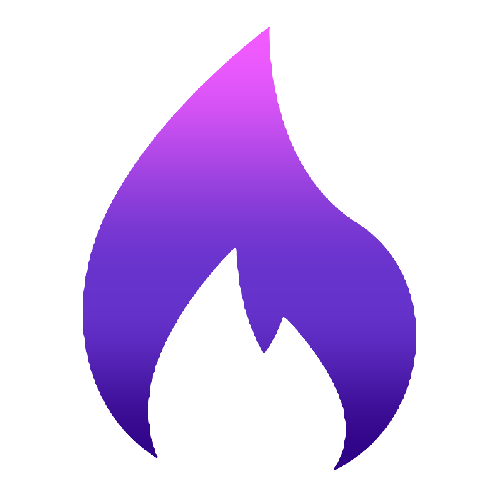
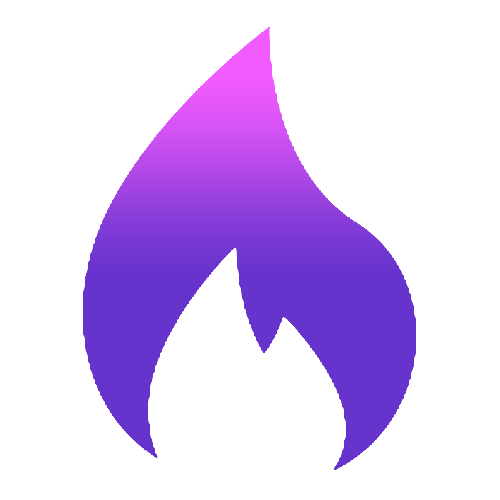
fix: Correção do comportamento dos icones de Sparks ao alterar o tema. Alteração de 'likes/curtidas' para 'sparks'

Changed region(s): [[0.63, 0.72, 0.84, 0.96], [0.18, 0.72, 0.33, 0.93]]

diff --git a/frontend/src/modules/clarospark/components/board/IdeaCard.jsx b/frontend/src/modules/clarospark/components/board/IdeaCard.jsx
@@ -28,6 +28,7 @@ import { useLikes } from "modules/clarospark/hooks/useLikes";
 import statusConfig from "modules/clarospark/utils/statusConfig";
 import { getLikeIcon } from "modules/clarospark/utils/getLikeIcon";
 import spark from "modules/clarospark/assets/f0.png";
+import { useTheme } from "modules/shared/contexts/ThemeContext";
 
 export default function IdeaCard({
   title,
@@ -42,14 +43,14 @@ export default function IdeaCard({
   const { likesCount, handleLike, updateLikeCount } = useLikes();
   const [isModalOpen, setIsModalOpen] = useState(false);
   const { color, icon } = statusConfig[status] || statusConfig["Em análise"];
-  const [theme, setTheme] = useState(localStorage.getItem("theme") || "dark");
+  const { theme } = useTheme();
 
   const handleCardClick = () => setIsModalOpen(true);
   const handleCloseModal = () => setIsModalOpen(false);
 
   const isLongDescription = description.length > 90;
   const truncatedDescription = isLongDescription
-    ? `${description.substring(0, 85)} ... `
+    ? `${description.substring(0, 90)} ... `
     : description;
 
   const displayedCreator =
@@ -61,20 +62,6 @@ export default function IdeaCard({
   useEffect(() => {
     updateLikeCount(ideaId, initialLikesCount);
   }, [ideaId, initialLikesCount, updateLikeCount]);
-
-  useEffect(() => {
-    const handleThemeChange = () => {
-      const newTheme = localStorage.getItem("theme") || "dark";
-      setTheme(newTheme);
-    };
-
-    // Monitora mudanças no tema
-    window.addEventListener("storage", handleThemeChange);
-
-    return () => {
-      window.removeEventListener("storage", handleThemeChange);
-    };
-  }, []);
 
   const handleLikeClick = async (e) => {
     e.stopPropagation();
@@ -127,14 +114,14 @@ export default function IdeaCard({
               onClick={status === "Em Análise" ? handleLikeClick : undefined}
               disabled={status !== "Em Análise"}
             >
-              <img src={likeIcon} alt="Like" className="w-6" />
+              <img src={likeIcon} alt="Sparks" className="w-6" />
               <span className="relative bottom-4 right-1 text-xs">
                 {currentLikes}
               </span>
             </Button>
           </TooltipTrigger>
           <TooltipContent>
-            {status === "Em Análise" ? "Curtir ideia" : "Like desativado"}
+            {status === "Em Análise" ? "Apoiar ideia" : "Like desativado"}
           </TooltipContent>
         </Tooltip>
       </div>
@@ -170,7 +157,7 @@ export default function IdeaCard({
                   Criador(a) da ideia
                 </p>
                 <p className="text-xs text-muted-foreground">
-                  {currentLikes} curtidas
+                  {currentLikes} sparks
                 </p>
               </div>
             </div>
@@ -180,8 +167,8 @@ export default function IdeaCard({
             <div className="flex space-x-2">
               {status === "Em Análise" && (
                 <Button variant="primary" onClick={handleLikeClick}>
-                  <img src={spark} alt="Like" className="mr-2 w-6" />
-                  Curtir
+                  <img src={spark} alt="Sparks" className="mr-2 w-6" />
+                  Apoiar
                 </Button>
               )}
               <Button variant="secondary" onClick={handleCloseModal}>

diff --git a/frontend/src/modules/shared/components/Header.jsx b/frontend/src/modules/shared/components/Header.jsx
@@ -1,4 +1,4 @@
-import React, { useState, useEffect, useContext } from "react";
+import React, { useContext } from "react";
 import { useLocation, Link } from "react-router-dom";
 import { Button } from "modules/shared/components/ui/button";
 import {
@@ -24,31 +24,13 @@ import AvatarDropdown from "modules/shared/components/AvatarDropdown";
 import NotificationsPopover from "modules/shared/components/NotificationsPopover";
 import formatUserName from "modules/shared/utils/formatUsername";
 import { AuthContext } from "modules/shared/contexts/AuthContext";
+import { useTheme } from "modules/shared/contexts/ThemeContext"; // Importa o hook de tema
 import appHeaderInfo from "../utils/appHeaderInfo";
 
 const Header = () => {
   const { user, logout } = useContext(AuthContext);
-  const [theme, setTheme] = useState("dark");
+  const { theme, toggleTheme } = useTheme(); // Usa o contexto para acessar e alternar o tema
   const location = useLocation();
-
-  useEffect(() => {
-    const savedTheme = localStorage.getItem("theme") || "dark";
-    setTheme(savedTheme);
-    document.documentElement.classList.toggle(
-      "light-theme",
-      savedTheme === "light",
-    );
-  }, []);
-
-  const toggleTheme = () => {
-    const newTheme = theme === "dark" ? "light" : "dark";
-    setTheme(newTheme);
-    localStorage.setItem("theme", newTheme);
-    document.documentElement.classList.toggle(
-      "light-theme",
-      newTheme === "light",
-    );
-  };
 
   const onLogout = () => {
     logout();
@@ -78,7 +60,7 @@ const Header = () => {
           <Button
             variant="ghost"
             size="icon"
-            onClick={toggleTheme}
+            onClick={toggleTheme} // Chama a função de alternar tema do contexto
             className="text-menu-foreground"
             aria-label={`Alternar para modo ${theme === "dark" ? "claro" : "escuro"}`}
           >

diff --git a/frontend/src/modules/clarospark/components/board/SparkMenu.jsx b/frontend/src/modules/clarospark/components/board/SparkMenu.jsx
@@ -25,6 +25,8 @@ import {
 } from "modules/shared/components/ui/dropdown-menu";
 import { useDownloadIdeas } from "modules/clarospark/hooks/useDownloadIdeas";
 import spark from "modules/clarospark/assets/f0.png";
+import sparkw from "modules/clarospark/assets/f0w.png";
+import { useTheme } from "modules/shared/contexts/ThemeContext";
 
 export default function SparkMenu({
   onToggleView,
@@ -60,6 +62,8 @@ export default function SparkMenu({
     fetchRemainingLikes();
   });
 
+  const { theme } = useTheme();
+
   return (
     <>
       <div className="relative bottom-0 top-[4px] z-20 flex w-1/2 justify-end space-x-2 justify-self-end sm:mr-10 sm:mt-24 lg:mr-10 lg:mt-0">
@@ -68,7 +72,7 @@ export default function SparkMenu({
             <TooltipTrigger asChild>
               <Button variant="ghost" size="icon" className="relative">
                 <img
-                  src={spark}
+                  src={theme === "dark" ? spark : sparkw}
                   alt="Quantidade de Sparks"
                   width={22}
                   draggable={false}
@@ -78,7 +82,7 @@ export default function SparkMenu({
                 </span>
               </Button>
             </TooltipTrigger>
-            <TooltipContent>Curtidas Restantes</TooltipContent>
+            <TooltipContent>Sparks Restantes</TooltipContent>
           </Tooltip>
 
           <Tooltip>

diff --git a/frontend/src/modules/shared/contexts/ThemeContext.jsx b/frontend/src/modules/shared/contexts/ThemeContext.jsx
@@ -1,0 +1,34 @@
+import React, { createContext, useState, useEffect, useContext } from "react";
+
+const ThemeContext = createContext();
+
+export const ThemeProvider = ({ children }) => {
+  const [theme, setTheme] = useState("dark");
+
+  useEffect(() => {
+    const savedTheme = localStorage.getItem("theme") || "dark";
+    setTheme(savedTheme);
+    document.documentElement.classList.toggle(
+      "light-theme",
+      savedTheme === "light",
+    );
+  }, []);
+
+  const toggleTheme = () => {
+    const newTheme = theme === "dark" ? "light" : "dark";
+    setTheme(newTheme);
+    localStorage.setItem("theme", newTheme);
+    document.documentElement.classList.toggle(
+      "light-theme",
+      newTheme === "light",
+    );
+  };
+
+  return (
+    <ThemeContext.Provider value={{ theme, toggleTheme }}>
+      {children}
+    </ThemeContext.Provider>
+  );
+};
+
+export const useTheme = () => useContext(ThemeContext);

diff --git a/frontend/src/modules/clarospark/utils/getLikeIcon.jsx b/frontend/src/modules/clarospark/utils/getLikeIcon.jsx
@@ -5,7 +5,7 @@ import f2 from "modules/clarospark/assets/f2.png";
 import f3 from "modules/clarospark/assets/f3.png";
 
 const iconMap = [
-  { threshold: 0, icon: f0, lightIcon: f0w },
+  { threshold: 0, iconDark: f0, iconLight: f0w },
   { threshold: 1, icon: f1 },
   { threshold: 15, icon: f2 },
   { threshold: 22, icon: f3 },
@@ -14,11 +14,12 @@ const iconMap = [
 export function getLikeIcon(likes, theme) {
   for (let i = iconMap.length - 1; i >= 0; i--) {
     if (likes >= iconMap[i].threshold) {
-      if (i === 0 && theme === "light") {
-        return iconMap[i].lightIcon;
+      // Retorna o ícone correto com base no tema
+      if (iconMap[i].iconDark && iconMap[i].iconLight) {
+        return theme === "dark" ? iconMap[i].iconDark : iconMap[i].iconLight;
       }
       return iconMap[i].icon;
     }
   }
-  return theme === "light" ? iconMap[0].lightIcon : iconMap[0].icon;
+  return iconMap[0].icon;
 }

diff --git a/frontend/src/modules/clarospark/components/board/AddIdeaModal.jsx b/frontend/src/modules/clarospark/components/board/AddIdeaModal.jsx
@@ -51,6 +51,7 @@ export default function AddIdeaModal({ subjects, onClose, userName, userId }) {
       <form onSubmit={handleSubmit} className="grid gap-4">
         <Input
           placeholder="Título"
+          maxLength={50}
           value={newCard.title}
           onChange={(e) => setNewCard({ ...newCard, title: e.target.value })}
           required
@@ -58,6 +59,7 @@ export default function AddIdeaModal({ subjects, onClose, userName, userId }) {
         <Textarea
           placeholder="Descrição"
           value={newCard.description}
+          maxLength={200}
           onChange={(e) =>
             setNewCard({ ...newCard, description: e.target.value })
           }

diff --git a/frontend/src/App.js b/frontend/src/App.js
@@ -7,6 +7,7 @@ import Rotas from "./routes/Rotas";
 import "./App.css";
 import { Toaster } from "modules/shared/components/ui/sonner";
 import { AuthContext } from "modules/shared/contexts/AuthContext";
+import { ThemeProvider } from "modules/shared/contexts/ThemeContext";
 
 function App() {
   // Acessa o contexto de autenticação
@@ -14,12 +15,14 @@ function App() {
 
   return (
     <Router>
+      <ThemeProvider>
       {!token && <Navigate to="/login" />}
       {token && <Header />}
       <Rotas />
       {token && <Footer />}
 
       <Toaster position="bottom-right" richColors />
+      </ThemeProvider>
     </Router>
   );
 }

diff --git a/backend/src/routes/ideaRoutes.js b/backend/src/routes/ideaRoutes.js
@@ -70,7 +70,7 @@ module.exports = (ideasCollection, usersCollection, pusher) => {
 
       /* Verificar likes diários */
       if (user.dailyLikesUsed >= 3) {
-        return res.status(403).json({ message: "Você já usou todos os seus likes diários." });
+        return res.status(403).json({ message: "Você já usou todos os seus sparks diários." });
       }
 
       await ideasCollection.updateOne(

diff --git a/frontend/src/modules/clarospark/hooks/useLikes.jsx b/frontend/src/modules/clarospark/hooks/useLikes.jsx
@@ -26,7 +26,7 @@ export function useLikes() {
           return response.data.likesCount;
         }
       } catch (error) {
-        toast.warning("Você já utilizou todos os seus likes diários");
+        toast.warning("Você já utilizou todos os seus sparks diários");
 
         throw error;
       }
